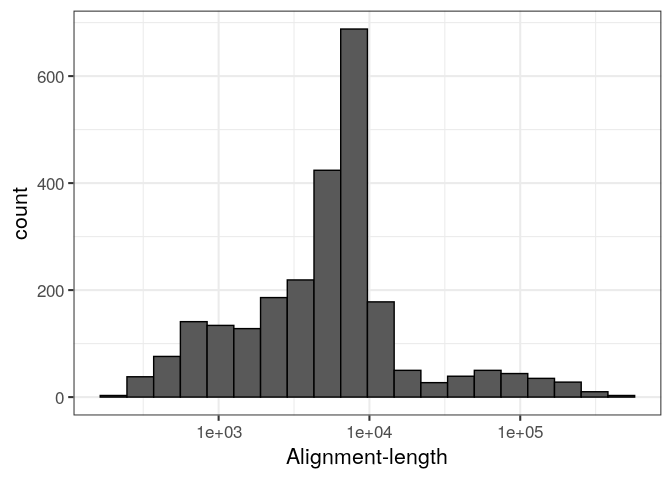
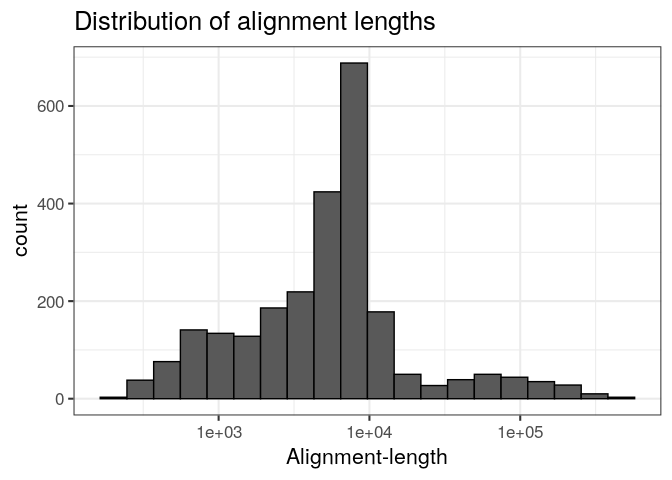
caught issues with alignment-length hisogram in README

diff --git a/README.md b/README.md
@@ -55,9 +55,10 @@ mean(ali$alen)
 Likewise, we can use ggplot to find the distributoin of alignment lengths in the file.
 
 ``` r
-ggplot(ali, aes(alen, fill=dv)) + 
+ggplot(ali, aes(alen)) + 
     geom_histogram(colour="black", bins=20) + 
     theme_bw(base_size=16) + 
+    ggtitle("Distribution of alignment lengths") +
     scale_x_log10("Alignment-length")
 ```
 
